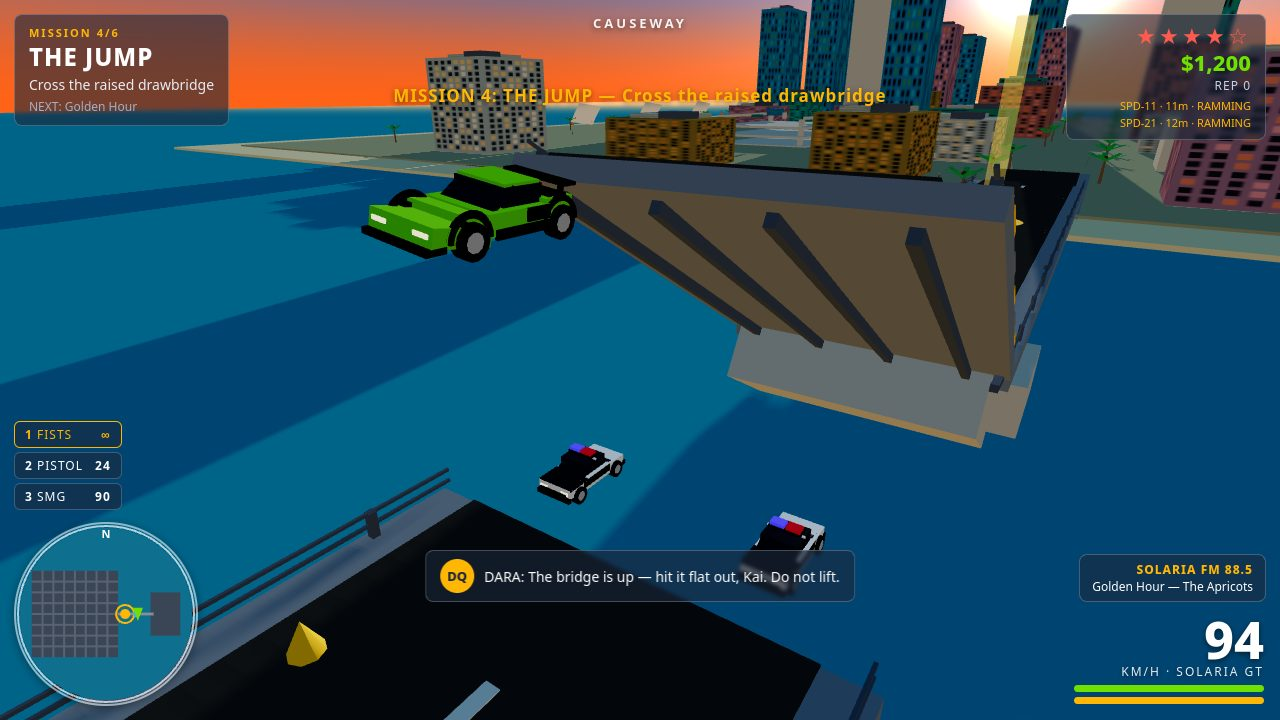
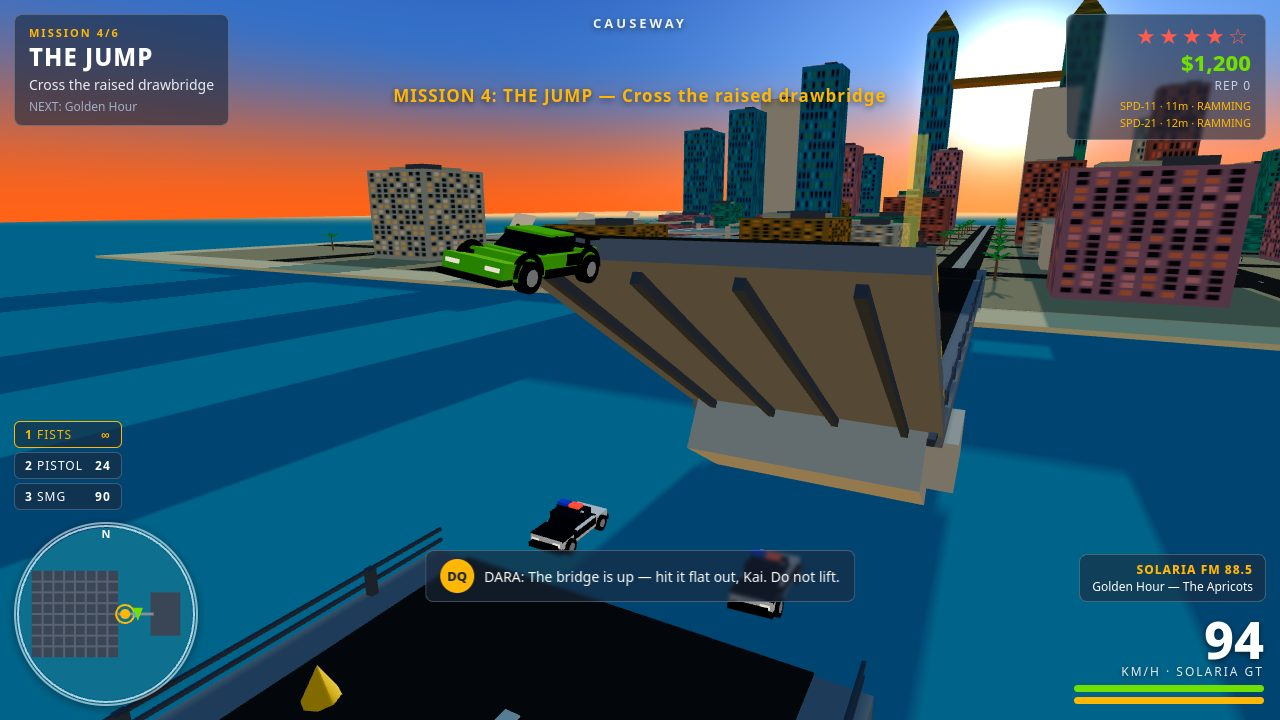
SOLARIA BAY v2.1: roads read as roads, sun disc visible, spawn never blocked
Fix round for the two visual flaws in v2 (commit 5dff2e0):
- Root cause of the invisible streets: the island/Key ground slabs were
  centred at y=-0.1, so their tops sat at +0.5, half a metre ABOVE the
  gameplay ground (heightAt returns 0). Every asphalt strip (tops 0.12),
  lane dash, median, car wheel (bottoms at 0), Kai's feet and palm trunk
  was buried under the surface, so the streets read as one flat grey-green
  field. Centre the slabs at -0.6 so their tops sit at y=0, matching
  heightAt; thin the road strips to 0.06 so only 6 cm of tyre hides.
  Ground warmed to the config tan (#b3a37e).
- Sun disc: the sun sat 0.12 south of due west, hiding behind the south
  Twin Tower, and the cover camera looked down so the sun fell outside
  the frame. Put the sun due west (z=0, sets between the towers), enlarge
  the disc to radius 60, and re-aim the cover camera high on the
  north-east side looking slightly up so the disc, the car, the bridge
  and both interceptors are all in frame.
- Pre-existing bug found while verifying: the player spawns at (-60, 40)
  and the city layout is random per visit, so a tower on that block
  trapped the player inside its collider on ~1 in 3 loads (playtest walk
  check failed 0.0m). addBuilding now never builds on the spawn.
Playtest 43/43 (clean runs), kit check 5/0, 4 screenshots 1280x720.

diff --git a/game/src/city.js b/game/src/city.js
@@ -68,7 +68,7 @@ export function buildWorld(scene, random) {
     return new THREE.MeshLambertMaterial({ color, map: windowTexture });
   }
   const mat = {
-    ground: lambert(0xa8a582), // warm sun-baked ground, not green
+    ground: lambert(0xb3a37e), // warm sun-baked tan (config PALETTE.ground)
     beach: lambert(0xe8d8a8),
     asphalt: lambert(0x3b3835), // warm charcoal — the v1 teal is gone
     dash: lambert(0xe8e4d8),
@@ -93,7 +93,10 @@ export function buildWorld(scene, random) {
   // Zenith blue overhead, a pale blue mid-band, apricot only in a thin
   // band at the horizon. The two-stage mix keeps the mid-sky pale blue —
   // v1 mixed horizon straight into zenith and the middle turned purple.
-  const sunDir = new THREE.Vector3(-Math.cos(SUN.elevation), Math.sin(SUN.elevation), 0.12).normalize();
+  // The sun hangs due west (z = 0), so it sets directly BETWEEN the Twin
+  // Prism Towers (z = -58 and +58) instead of hiding behind the south one.
+  // The 0.12 south offset v1 used put the disc behind the south tower.
+  const sunDir = new THREE.Vector3(-Math.cos(SUN.elevation), Math.sin(SUN.elevation), 0).normalize();
   const skyMaterial = new THREE.ShaderMaterial({
     side: THREE.BackSide,
     depthWrite: false,
@@ -134,7 +137,7 @@ export function buildWorld(scene, random) {
   // The sun disc itself: a bright circle far to the west, big enough to
   // read clearly in the cover shot, with a soft glow around it.
   const sunDisc = new THREE.Mesh(
-    new THREE.CircleGeometry(46, 32),
+    new THREE.CircleGeometry(60, 32),
     new THREE.MeshBasicMaterial({ color: 0xfff6e5, fog: false }),
   );
   sunDisc.position.copy(sunDir).multiplyScalar(1250);
@@ -174,28 +177,46 @@ export function buildWorld(scene, random) {
   deep.position.y = WORLD.waterY - 0.6;
   group.add(deep);
 
+  // Ground slabs: their tops MUST sit at y = 0, exactly the height
+  // heightAt() reports for the island and the Key. v2 centred them at
+  // y = -0.1, so their tops were at +0.5 — half a metre ABOVE the
+  // gameplay ground. That buried every road strip (tops at 0.12), every
+  // lane dash, the median, the car wheels (bottoms at 0), Kai's feet and
+  // the palm trunks, which is why the streets read as one flat
+  // grey-green field. Centring the slabs at -0.6 puts their tops at 0.
   const beach = box(680, 1, 680, mat.beach, 0, -0.6, 0, group);
   beach.receiveShadow = true;
-  const island = box(640, 1.2, 640, mat.ground, 0, -0.1, 0, group);
+  const island = box(640, 1.2, 640, mat.ground, 0, -0.6, 0, group);
   island.receiveShadow = true;
-  box(230, 1.2, 330, mat.ground, (WORLD.keyX0 + WORLD.keyX1) / 2, -0.1, 0, group);
+  box(230, 1.2, 330, mat.ground, (WORLD.keyX0 + WORLD.keyX1) / 2, -0.6, 0, group);
   box(250, 1, 350, mat.beach, (WORLD.keyX0 + WORLD.keyX1) / 2, -0.6, 0, group);
 
   // --- Roads: warm asphalt strips on the grid, with centre dashes -------------
+  // Thin raised strips (tops at 0.06, just above the ground at 0) so the
+  // street reads as a street: dark charcoal against the tan blocks, with
+  // pale dashes. The wheels sit at y = 0, so a 0.06 strip only hides
+  // 6 cm of tyre — invisible — while the old 0.12 strips were buried
+  // under the old 0.5 ground and never seen at all.
   for (const line of STREETS) {
-    box(14, 0.12, 640, mat.asphalt, line, 0.06, 0, group).receiveShadow = true;
-    box(640, 0.12, 14, mat.asphalt, 0, 0.06, line, group).receiveShadow = true;
+    box(14, 0.06, 640, mat.asphalt, line, 0.03, 0, group).receiveShadow = true;
+    box(640, 0.06, 14, mat.asphalt, 0, 0.03, line, group).receiveShadow = true;
     for (let d = -300; d <= 300; d += 24) {
-      box(0.7, 0.05, 3.4, mat.dash, line, 0.14, d, group);
-      box(3.4, 0.05, 0.7, mat.dash, d, 0.14, line, group);
+      box(0.7, 0.02, 3.4, mat.dash, line, 0.07, d, group);
+      box(3.4, 0.02, 0.7, mat.dash, d, 0.07, line, group);
     }
   }
   // Palm Boulevard (z = 0) keeps a wider planted median.
-  box(640, 0.2, 4, mat.sidewalk, 0, 0.1, 0, group);
+  box(640, 0.1, 4, mat.sidewalk, 0, 0.05, 0, group);
 
   // --- Buildings ---------------------------------------------------------------
+  // The player spawn (must match createPlayer in characters.js and the
+  // reset in main.js). No building may cover it: the layout is random
+  // per visit, and a tower on the spawn traps the player inside its
+  // collider on ~1 in 3 loads, so the player cannot walk at all.
+  const SPAWN = { x: -60, z: 40 };
   const buildingMats = [mat.glass, mat.glassBlue, mat.glassGold, mat.cream, mat.coral, mat.rose, mat.teal, mat.concrete];
   function addBuilding(x, z, w, d, h, material) {
+    if (x - w / 2 - 4 < SPAWN.x && SPAWN.x < x + w / 2 + 4 && z - d / 2 - 4 < SPAWN.z && SPAWN.z < z + d / 2 + 4) return null;
     const mesh = box(w, h, d, material, x, h / 2, z, group);
     mesh.receiveShadow = true;
     colliders.push({ x0: x - w / 2, z0: z - d / 2, x1: x + w / 2, z1: z + d / 2 });
@@ -300,8 +321,8 @@ export function buildWorld(scene, random) {
   addBuilding(620, -80, 26, 26, 64, mat.glassBlue);
   addBuilding(700, -90, 24, 24, 48, mat.teal);
   addBuilding(740, 60, 28, 28, 38, mat.cream);
-  box(220, 0.12, 14, mat.asphalt, 670, 0.06, 0, group);
-  box(14, 0.12, 320, mat.asphalt, 670, 0.06, 0, group);
+  box(220, 0.06, 14, mat.asphalt, 670, 0.03, 0, group);
+  box(14, 0.06, 320, mat.asphalt, 670, 0.03, 0, group);
 
   // --- Palms: boulevards, marina, causeway --------------------------------------
   const palmSpots = [];

diff --git a/game/src/shots.js b/game/src/shots.js
@@ -71,13 +71,17 @@ function stageDrawbridge(game) {
   g.missions.setMessage('MISSION 4: THE JUMP — Cross the raised drawbridge', 8);
   return {
     shotCam: {
-      // Close and high on the north-east side, looking west: the lime car
-      // big in the frame in side-rear 3/4, the sun disc right behind it,
-      // the Twin Towers behind that, and the leaf's asphalt deck (not its
-      // tan underside) visible beneath the car. High enough that the near
-      // deck reads as deck, not a black void at the frame's bottom edge.
-      pos: new THREE.Vector3(476, 23, -12),
-      lookAt: new THREE.Vector3(460, 15, -1),
+      // High on the north-east side, looking west and slightly UP at the
+      // car: high enough to see the leaf's asphalt deck (not its
+      // underside — a low eastern camera turns the leaf into a giant
+      // brown slab filling the frame), and aimed so the sun disc (due
+      // west, ~8 degrees up) sits in the upper frame between the Twin
+      // Towers while the interceptors on the deck below stay in the
+      // lower frame. v2 aimed down and the sun fell just outside the
+      // top of the frame; aiming at the car alone cut the police off
+      // at the bottom edge.
+      pos: new THREE.Vector3(480, 22, -12),
+      lookAt: new THREE.Vector3(458, 16, 0),
     },
   };
 }
